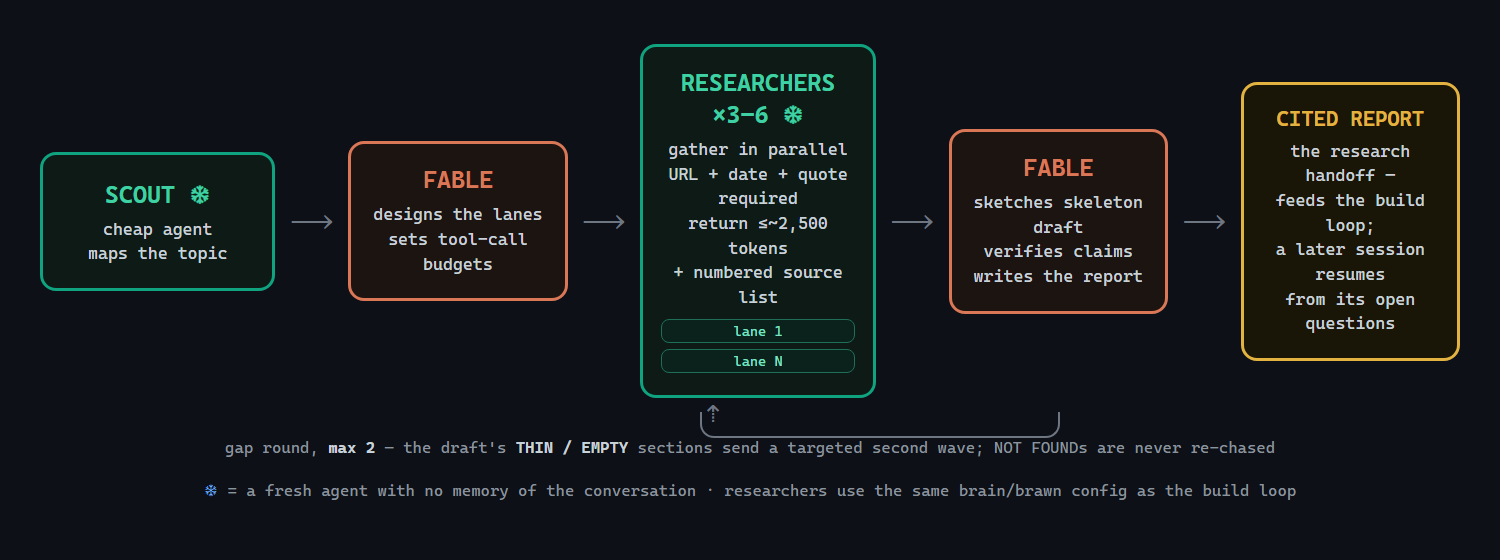
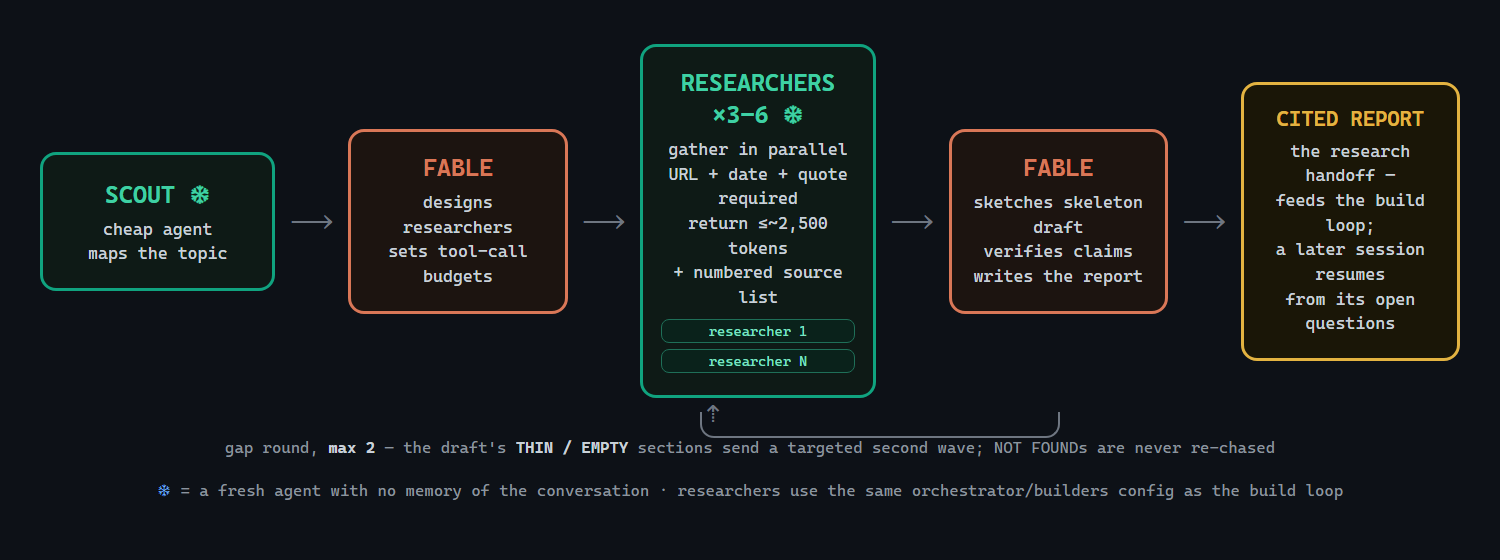
A7: re-render diagram PNGs from renamed HTML; +25px body height for legend overflow

diff --git a/assets/architect-flow.html b/assets/architect-flow.html
@@ -1,7 +1,7 @@
 <!DOCTYPE html>
 <html><head><meta charset="utf-8"><style>
   * { margin:0; padding:0; box-sizing:border-box; }
-  body { width:1500px; height:520px; background:#0d1117; font-family:"Cascadia Code",Consolas,monospace; color:#e6edf3; padding:36px 26px; }
+  body { width:1500px; height:545px; background:#0d1117; font-family:"Cascadia Code",Consolas,monospace; color:#e6edf3; padding:36px 26px; }
   .row { display:flex; align-items:stretch; justify-content:center; gap:9px; margin-top:6px; }
   .box { border-radius:14px; padding:18px 12px; text-align:center; width:224px; display:flex; flex-direction:column; justify-content:flex-start; }
   .fable { background:#1c1410; border:3px solid #d97757; }
